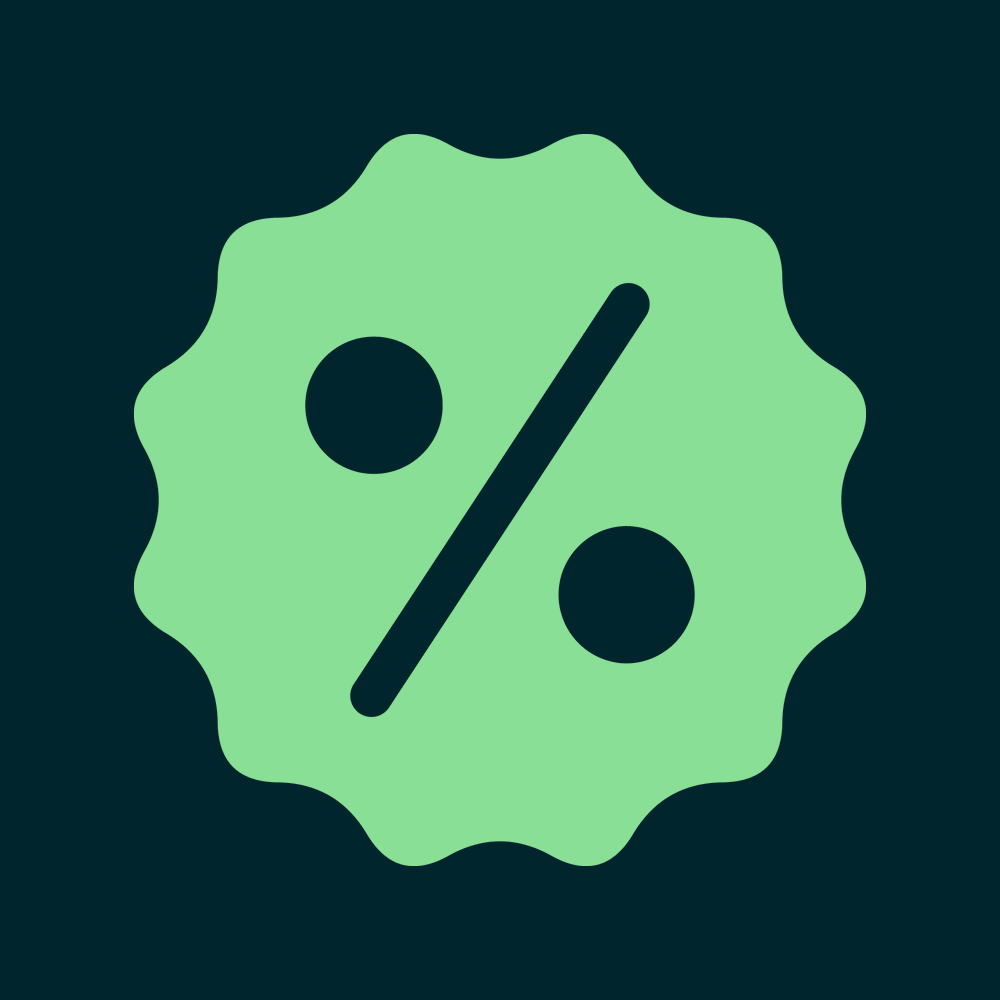
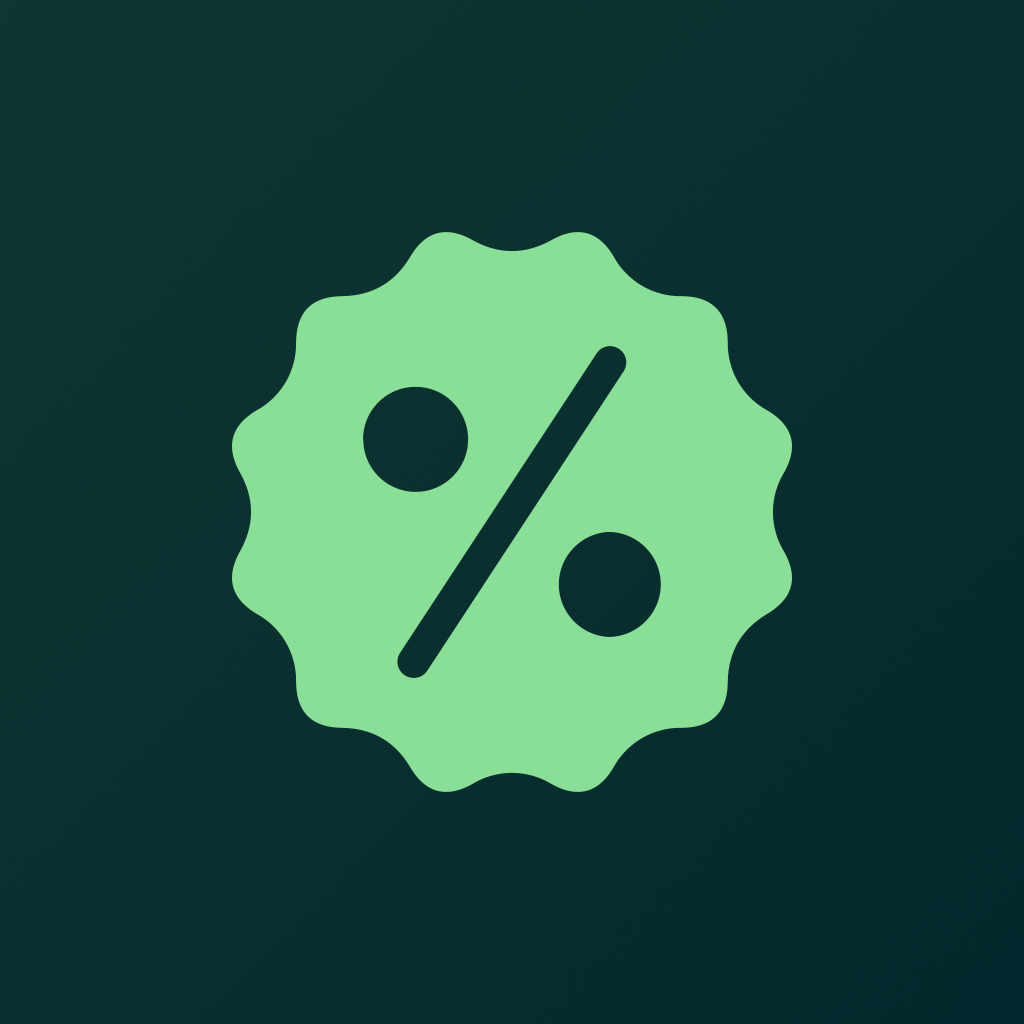
nuxt: fine tune PWA

Changed region(s): [[0.124, 0.124, 0.868, 0.868], [0.496, 0.372, 0.589, 0.496], [0.434, 0.465, 0.527, 0.589]]

diff --git a/nuxt.config.js b/nuxt.config.js
@@ -191,12 +191,16 @@ export default {
             theme_color: process.env.APP_PRIMARY_COLOR
         },
         manifest: {
+            background_color: process.env.APP_SECONDARY_COLOR,
             name: process.env.APP_NAME,
             short_name: process.env.APP_NAME,
             description: "vergihesaplayici.com, vergi hesaplar.",
             orientation: "portrait",
             id: "/?standalone=true",
             lang: "tr"
+        },
+        icon: {
+            purpose: "maskable"
         }
     },
 
